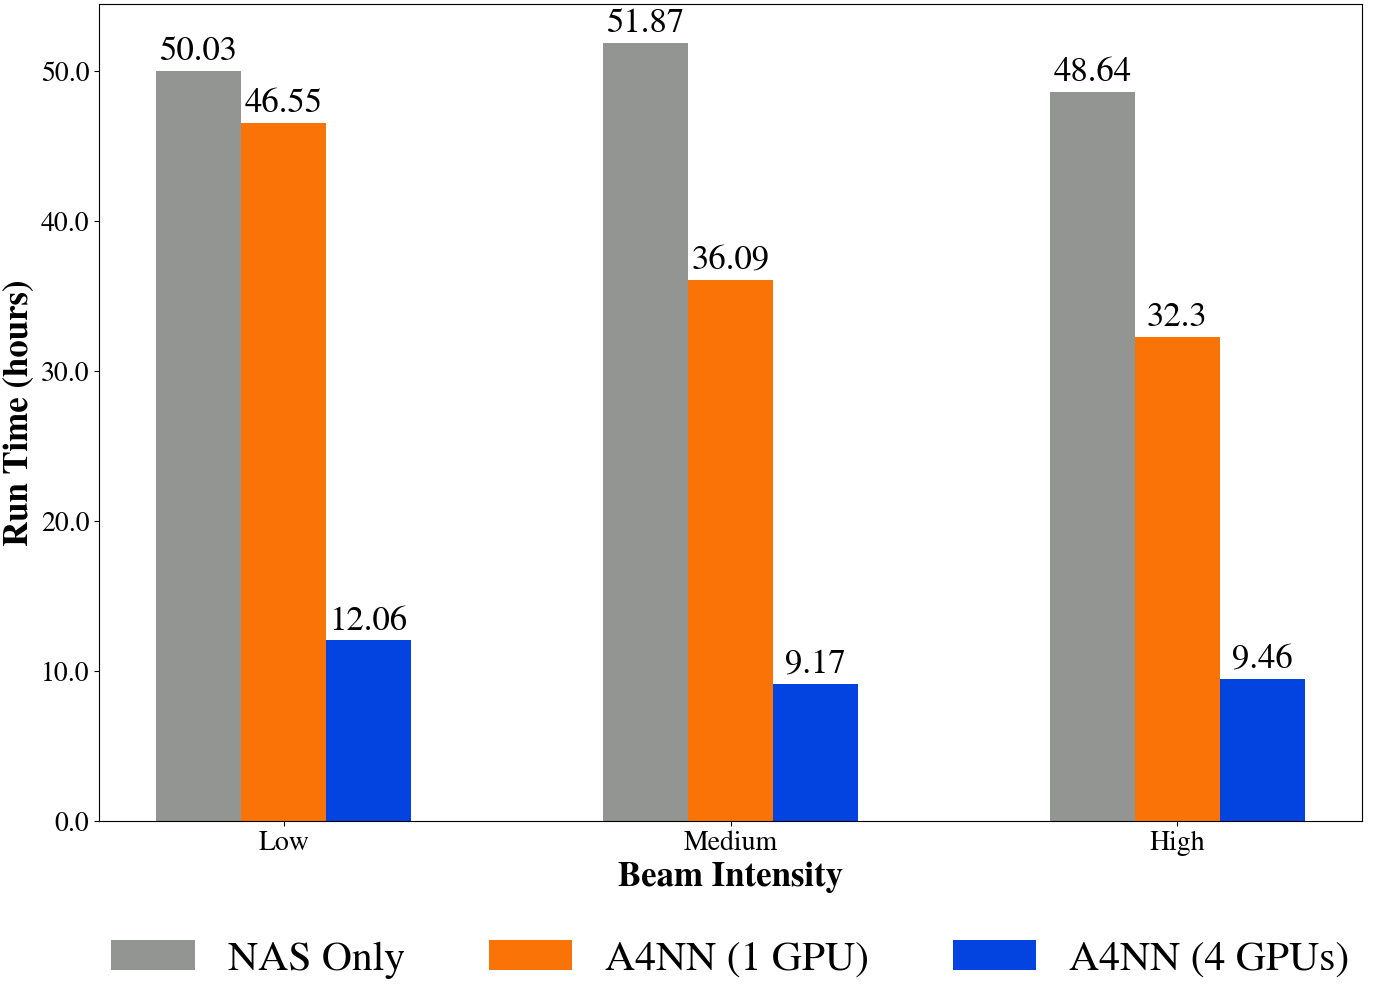
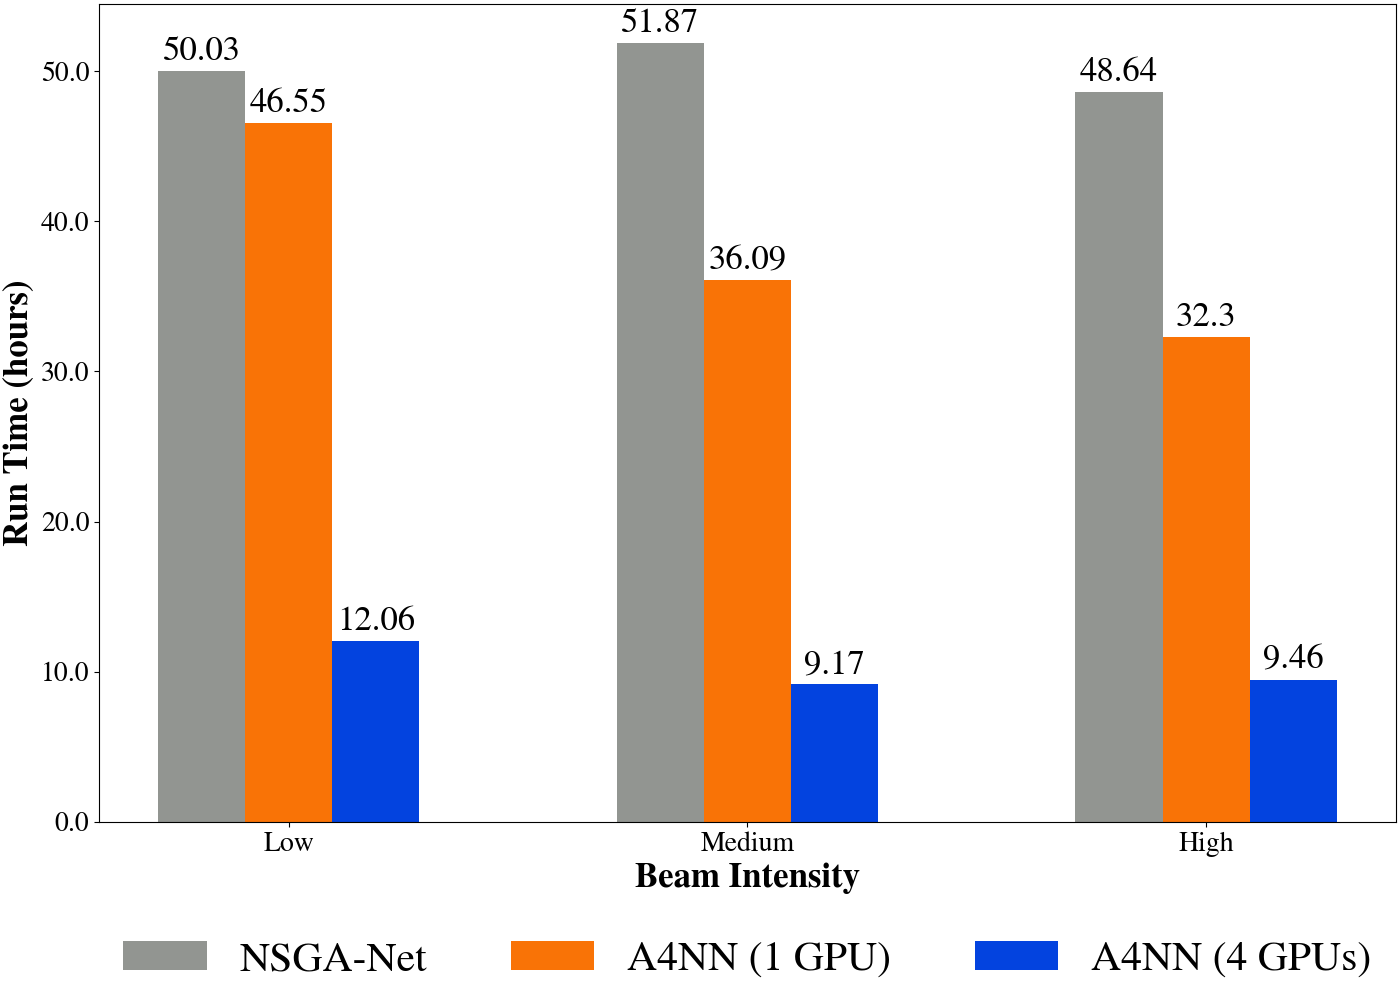
Fixed figure 8

diff --git a/paper_analysis.py b/paper_analysis.py
@@ -482,7 +482,7 @@ def plot_times():
     stop_1e16 = np.array([time_df[b16 & stop & gpu1][time_format].item(), time_df[b16 & stop & gpu4][time_format].item()])/secs
 
     epochs_run = {
-        'NAS Only': (no_stop_1e14[0], no_stop_1e15[0], no_stop_1e16[0]),
+        'NSGA-Net': (no_stop_1e14[0], no_stop_1e15[0], no_stop_1e16[0]),
         'A4NN (1 GPU)': (stop_1e14[0], stop_1e15[0], stop_1e16[0]),
         'A4NN (4 GPUs)': (stop_1e14[1], stop_1e15[1], stop_1e16[1]),
     }
